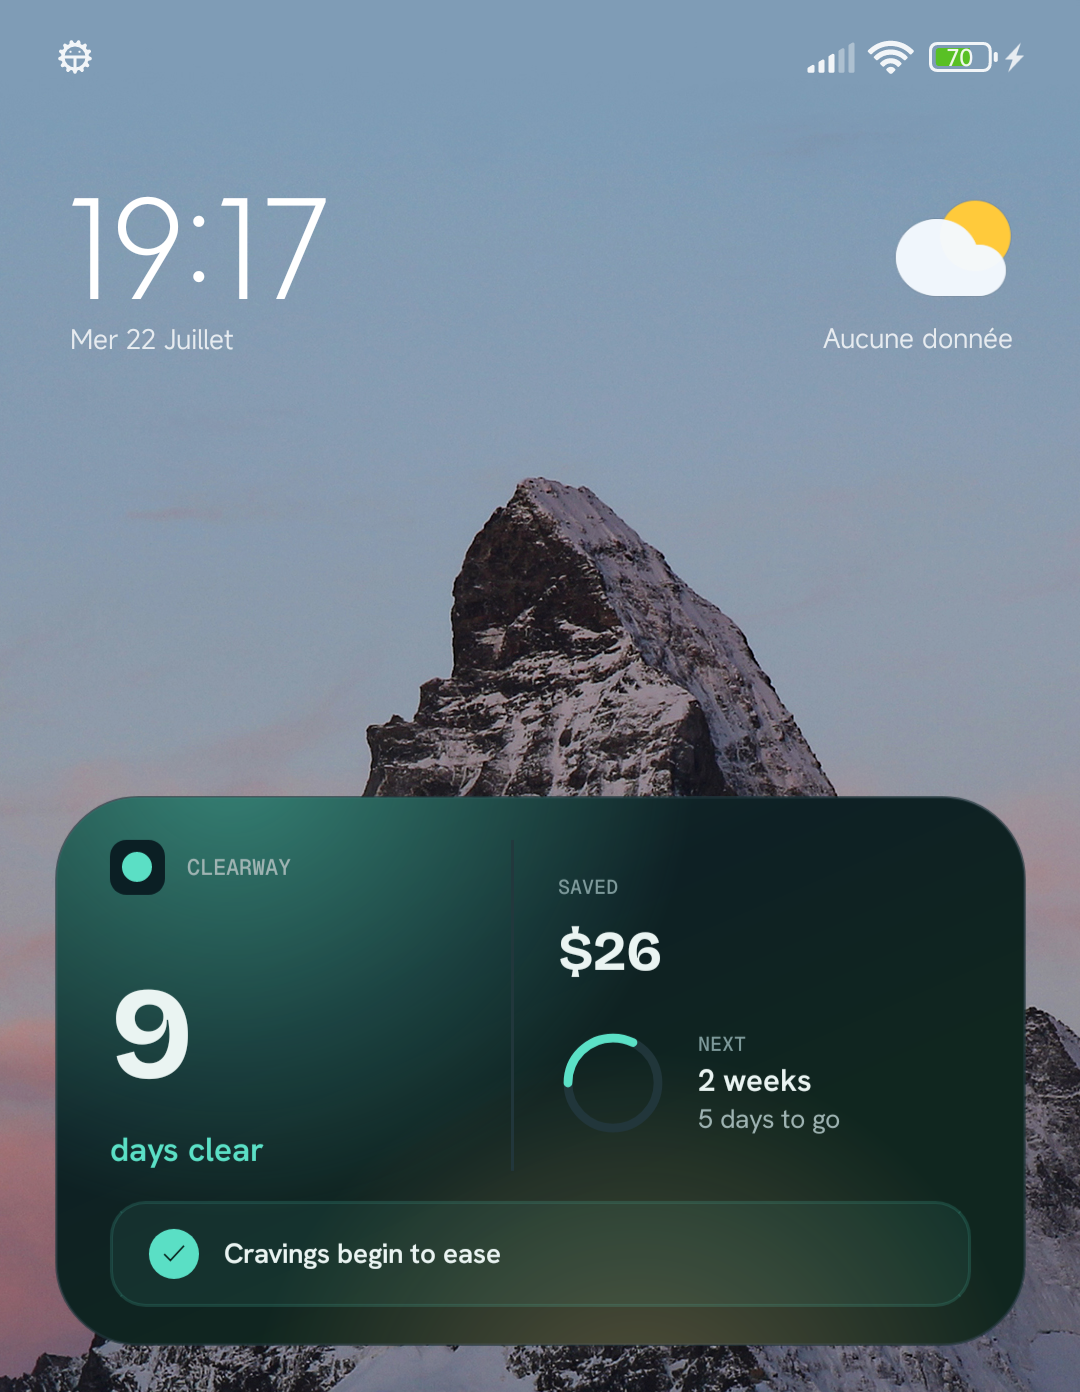
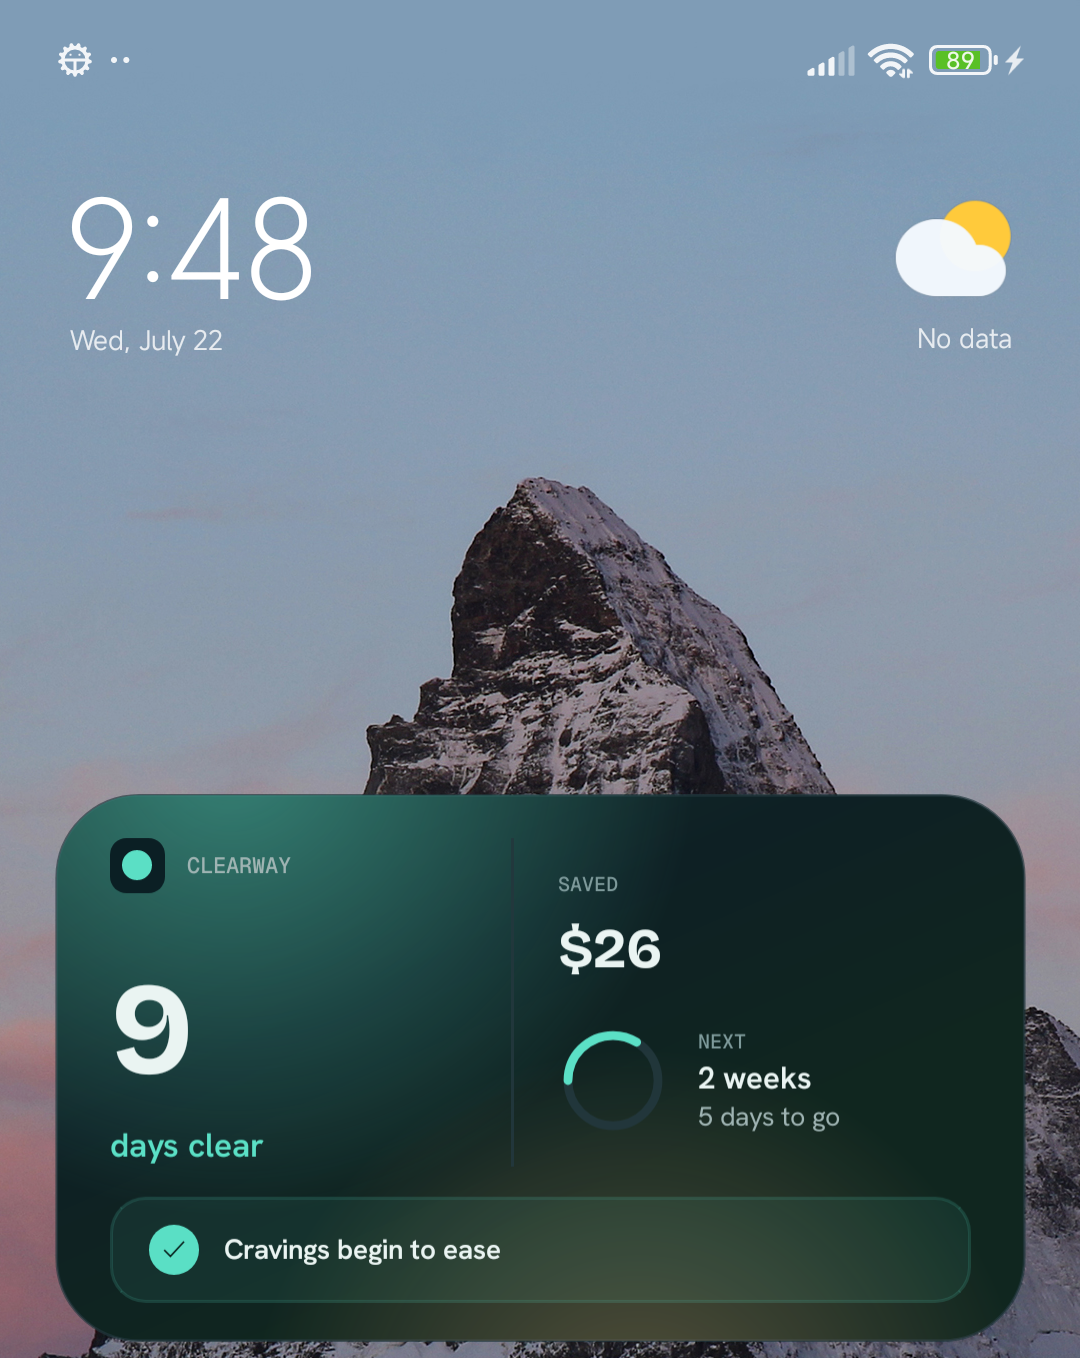
Add data-deletion page + footer link; English widget capture

diff --git a/app/delete-data/page.tsx b/app/delete-data/page.tsx
@@ -1,0 +1,108 @@
+import type { Metadata } from "next";
+import Image from "next/image";
+import LegalShell from "../components/LegalShell";
+
+export const metadata: Metadata = {
+  title: "Delete your data",
+  description:
+    "How to permanently delete your Clearway data. Everything is stored on your device — you can wipe it in two taps from the app, or by uninstalling.",
+  alternates: { canonical: "/delete-data" },
+};
+
+const shots = [
+  {
+    src: "/guide/delete-settings.png",
+    alt: "Clearway settings, About section, with the Delete my data option at the bottom",
+    caption: "Settings → About → Delete my data",
+  },
+  {
+    src: "/guide/delete-confirm.png",
+    alt: "Clearway confirmation sheet: Delete my data? Delete everything or Keep my data",
+    caption: "Confirm with Delete everything",
+  },
+];
+
+export default function DeleteDataPage() {
+  return (
+    <LegalShell title="Delete your data" updated="July 22, 2026">
+      <p>
+        Clearway keeps everything on your device — there are no accounts and no
+        server holding a profile about you. That means <strong>you</strong> can
+        erase your data at any time, directly from the app. Here&rsquo;s how.
+      </p>
+
+      <h2>Delete everything from inside the app</h2>
+      <ol className="list-decimal space-y-3 pl-6 marker:font-semibold marker:text-clear">
+        <li>Open the Clearway app.</li>
+        <li>
+          Tap the <strong>settings</strong> icon in the top-left corner of the
+          home screen.
+        </li>
+        <li>
+          Scroll to the bottom, to the <strong>About</strong> section.
+        </li>
+        <li>
+          Tap <strong>Delete my data</strong>.
+        </li>
+        <li>
+          Confirm by tapping <strong>Delete everything</strong>.
+        </li>
+      </ol>
+
+      <div className="mt-8 grid grid-cols-2 gap-4 sm:max-w-md">
+        {shots.map((s) => (
+          <figure key={s.src} className="flex flex-col items-center">
+            <div className="overflow-hidden rounded-[24px] border border-line bg-surface p-1.5">
+              <Image
+                src={s.src}
+                alt={s.alt}
+                width={400}
+                height={806}
+                className="h-auto w-full rounded-[18px]"
+                sizes="(max-width: 640px) 45vw, 220px"
+              />
+            </div>
+            <figcaption className="mt-3 text-center text-sm text-muted">
+              {s.caption}
+            </figcaption>
+          </figure>
+        ))}
+      </div>
+
+      <h2>What gets deleted</h2>
+      <p>
+        This permanently wipes your <strong>quit date</strong>, your{" "}
+        <strong>streak record</strong>, your <strong>reasons</strong>, and your{" "}
+        <strong>settings</strong> from the device.{" "}
+        <strong>There is no undo</strong>, so only do this if you&rsquo;re sure.
+      </p>
+
+      <h2>Prefer to just uninstall?</h2>
+      <p>
+        Uninstalling Clearway also removes all of its on-device data. Once the
+        app is gone, so is the local storage that held your progress — nothing is
+        left behind on a server, because it was never there.
+      </p>
+
+      <h2>Analytics and purchase data</h2>
+      <p>
+        Beyond your on-device data, two providers process a limited amount of
+        information on our behalf: <strong>PostHog</strong> (anonymous, aggregated
+        usage events) and <strong>RevenueCat</strong> / <strong>Google Play</strong>{" "}
+        (your subscription status and purchase records). This data isn&rsquo;t
+        removed by the in-app delete. To request its deletion, email us at the
+        address below and we&rsquo;ll take care of it.
+      </p>
+
+      <h2>Contact</h2>
+      <p>
+        Need help deleting your data, or want us to remove the analytics and
+        purchase records tied to you? Email{" "}
+        <a href="mailto:[email redacted]">
+          [email redacted]
+        </a>{" "}
+        and we&rsquo;ll respond as soon as we can.
+      </p>
+    </LegalShell>
+  );
+}

diff --git a/app/components/Footer.tsx b/app/components/Footer.tsx
@@ -40,6 +40,12 @@ export default function Footer() {
             <Link href="/terms" className="transition-colors hover:text-ink">
               Terms of Service
             </Link>
+            <Link
+              href="/delete-data"
+              className="transition-colors hover:text-ink"
+            >
+              Delete my data
+            </Link>
             <a
               href="mailto:[email redacted]"
               className="transition-colors hover:text-ink"

diff --git a/app/components/Screenshots.tsx b/app/components/Screenshots.tsx
@@ -60,7 +60,7 @@ export default function Screenshots() {
               src="/screenshots/widget-home.png"
               alt="Clearway widget on an Android home screen: 9 days clear, $26 saved, and the next milestone"
               width={540}
-              height={696}
+              height={679}
               className="h-auto w-full rounded-[28px]"
               sizes="(max-width: 640px) 80vw, 360px"
             />